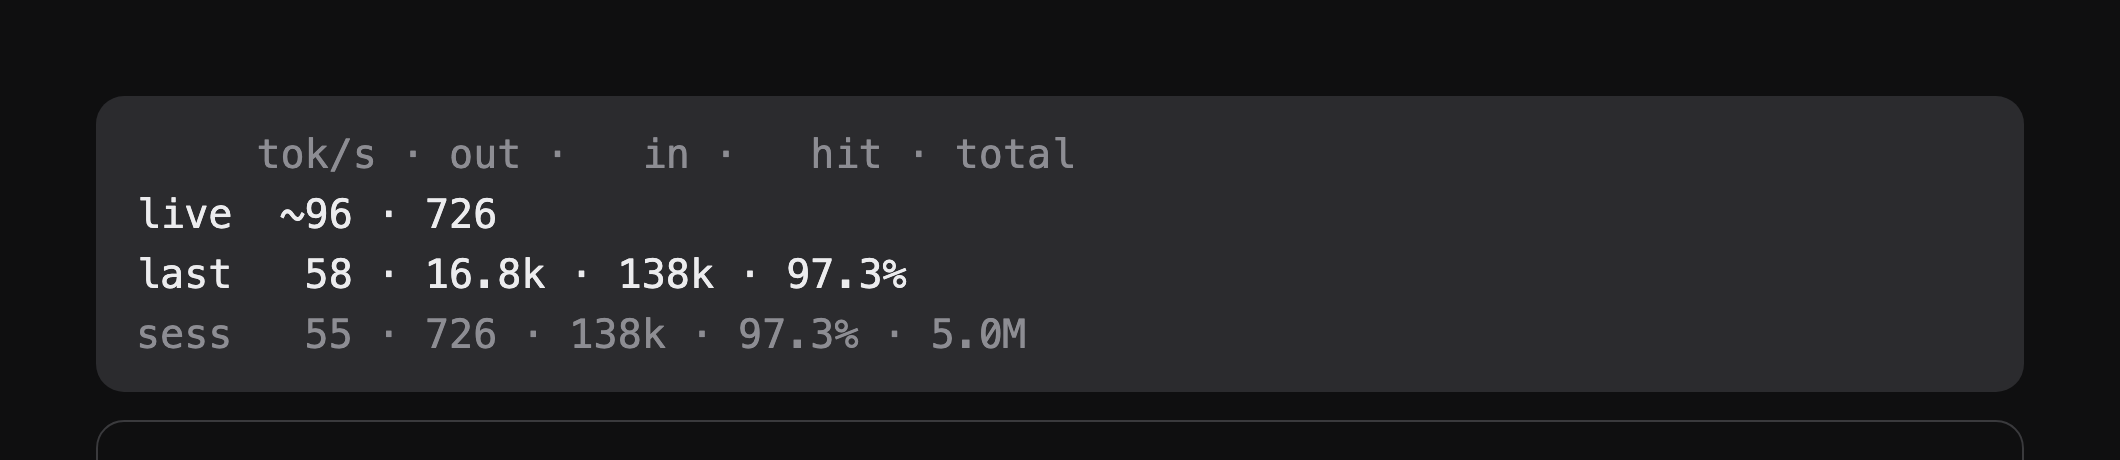
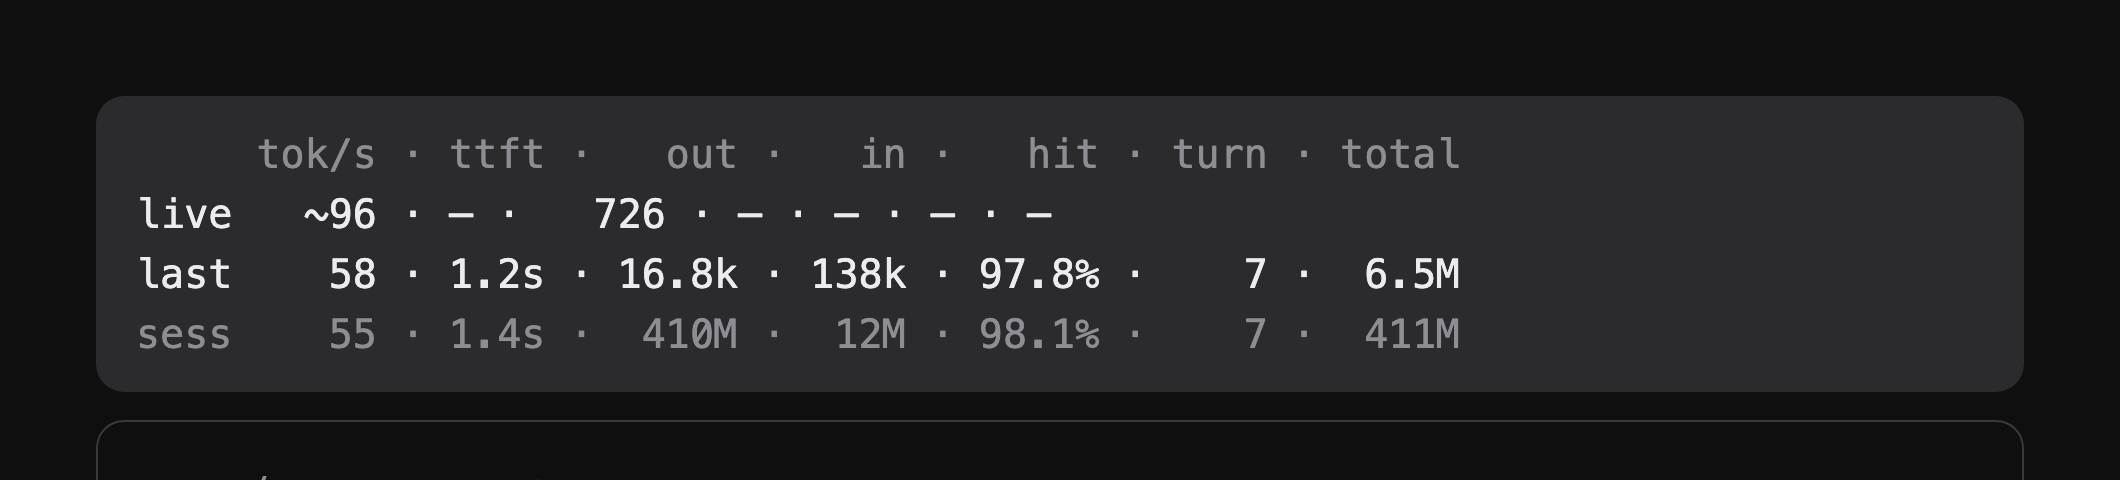
feat: add ttft, turn ordinal and per-turn total columns

diff --git a/hooks/register.tsx b/hooks/register.tsx
@@ -34,10 +34,8 @@ const cell = (v: string, w: number) => v.padStart(w)
 // column that carries one on another row, so a live row is "tok/s · out" and
 // the ones below keep the same columns. Columns the row lacks stay blank, at
 // their width, and trailing blanks are cut.
-const line = (cells: string[]) => {
-  const out = cells.join(' · ')
-  return out.replace(/[\s·]+$/, '')
-}
+// A cell a row has no value for keeps its column as a dash.
+const line = (cells: string[]) => cells.map(v => (v.trim() ? v : '—')).join(' · ')
 const pctF = (v: number) => v.toFixed(1)
 
 // Nothing in a streamed chunk counts tokens: each response reports its counts
@@ -129,8 +127,8 @@ export const register: Register = on => {
           seconds: (now - first) / 1000,
         }
         await update($, band, b => ({
-          last: b?.last ?? { tokPerSec: 0, hitPct: 0, input: 0, out: 0, seconds: 0 },
-          session: b?.session ?? { tokPerSec: 0, hitPct: 0, input: 0, out: 0, total: 0, turns: 0 },
+          last: b?.last ?? { tokPerSec: 0, hitPct: 0, input: 0, out: 0, total: 0, turn: 0, ttftMs: 0, seconds: 0 },
+          session: b?.session ?? { tokPerSec: 0, hitPct: 0, input: 0, out: 0, total: 0, turns: 0, ttftMs: 0 },
           live,
         }))
       }
@@ -142,8 +140,8 @@ export const register: Register = on => {
     // Written even with no band yet, so the first turn's rows exist by the time
     // its first chunk streams.
     await update($, band, b => ({
-      last: b?.last ?? { tokPerSec: 0, hitPct: 0, input: 0, out: 0, seconds: 0 },
-      session: b?.session ?? { tokPerSec: 0, hitPct: 0, input: 0, out: 0, total: 0, turns: 0 },
+      last: b?.last ?? { tokPerSec: 0, hitPct: 0, input: 0, out: 0, total: 0, turn: 0, ttftMs: 0, seconds: 0 },
+      session: b?.session ?? { tokPerSec: 0, hitPct: 0, input: 0, out: 0, total: 0, turns: 0, ttftMs: 0 },
       live: null,
     }))
 
@@ -162,7 +160,8 @@ export const register: Register = on => {
       input: prev?.turnId === e.turnId ? prev.input : 0,
       cached: prev?.turnId === e.turnId ? prev.cached : 0,
       written: prev?.turnId === e.turnId ? prev.written : 0,
-      ttftMs,
+      // The wait the person noticed is the turn's first one.
+      ttftMs: prev?.turnId === e.turnId && prev.ttftMs > 0 ? prev.ttftMs : ttftMs,
     }
 
     await update($, cur, () => ({
@@ -209,6 +208,7 @@ export const register: Register = on => {
       input: (prev?.input ?? 0) + (turn.input ?? 0),
       cached: (prev?.cached ?? 0) + (turn.cached ?? 0),
       written: (prev?.written ?? 0) + (turn.written ?? 0),
+      ttftMs: (prev?.ttftMs ?? 0) + (turn.ttftMs ?? 0),
       turns: (prev?.turns ?? 0) + 1,
     }
     const shown: Band = {
@@ -221,6 +221,9 @@ export const register: Register = on => {
               hitPct: pct(turn.cached ?? 0, denom),
               input: turn.input ?? 0,
               out: turn.out ?? 0,
+              total: denom + (turn.out ?? 0),
+              turn: sum.turns,
+              ttftMs: turn.ttftMs ?? 0,
               seconds: (turn.ms ?? 0) / 1000,
             }
           : ((await read($, band))?.last ?? {
@@ -228,6 +231,9 @@ export const register: Register = on => {
               hitPct: pct(turn.cached ?? 0, denom),
               input: turn.input ?? 0,
               out: turn.out ?? 0,
+              total: denom + (turn.out ?? 0),
+              turn: sum.turns,
+              ttftMs: turn.ttftMs ?? 0,
               seconds: 0,
             }),
       session: {
@@ -256,8 +262,8 @@ export const register: Register = on => {
     // Values written by the earlier band shape lack live and the token totals.
     const live = shown.live ?? null
     const num = (v: number | undefined) => v ?? 0
-    const mainLoop = shown.last ?? { tokPerSec: 0, hitPct: 0, input: 0, out: 0, seconds: 0 }
-    const sess = shown.session ?? { tokPerSec: 0, hitPct: 0, input: 0, out: 0, total: 0, turns: 0 }
+    const mainLoop = shown.last ?? { tokPerSec: 0, hitPct: 0, input: 0, out: 0, total: 0, turn: 0, ttftMs: 0, seconds: 0 }
+    const sess = shown.session ?? { tokPerSec: 0, hitPct: 0, input: 0, out: 0, total: 0, turns: 0, ttftMs: 0 }
 
     const { Box, Text } = $.ui.resolve(e)
 
@@ -272,11 +278,20 @@ export const register: Register = on => {
       return [cell(name, w), cell(a, w), cell(b, w), cell(c, w)]
     }
     const cols = [
-      col("tok/s", `~${fmtRate(num(live?.tokPerSec))}`, fmtRate(num(mainLoop.tokPerSec)), fmtRate(num(sess.tokPerSec))),
-      col("out", fmtTokens(num(live?.out)), fmtTokens(num(mainLoop.out)), fmtTokens(num(sess.out))),
+      col("tok/s", live ? `~${fmtRate(num(live.tokPerSec))}` : "", fmtRate(num(mainLoop.tokPerSec)), fmtRate(num(sess.tokPerSec))),
+      // Seconds to the first generated chunk; the session shows its average.
+      col(
+        "ttft",
+        "",
+        mainLoop.turn ? `${(num(mainLoop.ttftMs) / 1000).toFixed(1)}s` : "—",
+        sess.turns ? `${(num(sess.ttftMs) / num(sess.turns) / 1000).toFixed(1)}s` : "—",
+      ),
+      col("out", live ? fmtTokens(num(live.out)) : "", fmtTokens(num(mainLoop.out)), fmtTokens(num(sess.out))),
       col("in", "", fmtTokens(num(mainLoop.input)), fmtTokens(num(sess.input))),
       col("hit", "", `${pctF(num(mainLoop.hitPct))}%`, `${pctF(num(sess.hitPct))}%`),
-      col("total", "", "", fmtTokens(num(sess.total))),
+      // The turn in progress counts from the session's finished ones.
+      col("turn", live ? String(num(sess.turns) + 1) : "", String(num(mainLoop.turn)), String(num(sess.turns))),
+      col("total", "", fmtTokens(num(mainLoop.total)), fmtTokens(num(sess.total))),
     ] as const
 
     // Only sess stays dim: live is the value the person is watching, and dim
@@ -284,10 +299,9 @@ export const register: Register = on => {
     // `mono` is what makes the padding line up: the desktop's body face is
     // proportional, where a column of spaces is not a column of anything.
     // `tabular` pins digit widths, so a value that ticks does not shift.
-    const row = (label: string, i: number) => (
+    const row = (label: string, i: number, blank = false) => (
       <Text mono tabular dimColor={label === "sess"}>
-        {pad(label, 5)}
-        {line(cols.map(c => c[i]))}
+        {(pad(label, 5) + (blank ? "" : line(cols.map(c => c[i])))).trimEnd()}
       </Text>
     )
 
@@ -297,7 +311,7 @@ export const register: Register = on => {
           {pad("", 5)}
           {cols.map(c => c[0]).join(" · ")}
         </Text>
-        {row("live", 1)}
+        {row("live", 1, live === null)}
         {row("last", 2)}
         {row("sess", 3)}
       </Box>

diff --git a/tests/band.test.tsx b/tests/band.test.tsx
@@ -2,8 +2,12 @@ import { test, expect, mock } from 'claude-code/testing'
 
 // `find({ text })` matches the whole shown text by inclusion only for short
 // strings; row text is read here instead, as the joined display of one node.
+// Rows as shown, with the padding collapsed: order and content are what the
+// tests are about, not the column arithmetic (which is the renderer's).
 const rowTexts = async (ui: any) =>
-  (await ui.findAll({ type: 'Text' })).map((el: any) => el.text as string)
+  (await ui.findAll({ type: 'Text' })).map((el: any) =>
+    (el.text as string).replace(/\s+/g, ' ').trim(),
+  )
 
 const PROPS = {
   hasSurvey: false,
@@ -83,12 +87,11 @@ test('band rates decode windows, not turn wall time', { timeoutMs: 15000 }, asyn
     props: PROPS,
   })
 
-  expect(await rowTexts(ui1)).toEqual([
-    '     tok/s · out · in ·   hit · total',
-    'live  ~0.0 ·   0',
-    'last   199 · 400 · 1k · 80.0%',
-    'sess   199 · 400 · 1k · 80.0% ·   10k',
-  ])
+  const rows1 = await rowTexts(ui1)
+  expect(rows1[0]).toBe('tok/s · ttft · out · in · hit · turn · total')
+  expect(rows1[1]).toBe('live')
+  expect(rows1[2]).toMatch(/^last [\d.]+ · 0\.0s · 400 · 1k · 80\.0% · 1 · 10k$/)
+  expect(rows1[3]).toMatch(/^sess [\d.]+ · 0\.0s · 400 · 1k · 80\.0% · 1 · 10k$/)
 
   // Turn 2: 200 tokens over 1 s.
   decodeMs = 1000
@@ -114,12 +117,9 @@ test('band rates decode windows, not turn wall time', { timeoutMs: 15000 }, asyn
     props: PROPS,
   })
 
-  expect(await rowTexts(ui2)).toEqual([
-    '     tok/s · out ·   in ·   hit · total',
-    'live  ~0.0 ·   0',
-    'last   199 · 200 ·  500 · 80.0%',
-    'sess   199 · 600 · 1.5k · 80.0% ·   16k',
-  ])
+  const rows2 = await rowTexts(ui2)
+  expect(rows2[2]).toMatch(/^last [\d.]+ · 0\.0s · 200 · 500 · 80\.0% · 2 · 5\.2k$/)
+  expect(rows2[3]).toMatch(/^sess [\d.]+ · 0\.0s · 600 · 1\.5k · 80\.0% · 2 · 16k$/)
 })
 
 test('an all-zero usage turn leaves the band alone', { timeoutMs: 15000 }, async ($, on) => {
@@ -183,11 +183,10 @@ test('an all-zero usage turn leaves the band alone', { timeoutMs: 15000 }, async
     props: PROPS,
   })
 
-  expect((await rowTexts(ui)).slice(1)).toEqual([
-    'live  ~0.0 ·   0',
-    'last   100 · 100 · 900 · 0.0%',
-    'sess   100 · 100 · 900 · 0.0% ·    1k',
-  ])
+  const rows3 = (await rowTexts(ui)).slice(1)
+  expect(rows3[0]).toBe('live')
+  expect(rows3[1]).toMatch(/^last [\d.]+ · 0\.0s · 100 · 900 · 0\.0% · 1 · 1k$/)
+  expect(rows3[2]).toMatch(/^sess [\d.]+ · 0\.0s · 100 · 900 · 0\.0% · 1 · 1k$/)
   // Three rows, stacked: an idle live row above, never a fourth child beside them.
   const tree = (await ui.drawn()) as any
   expect(tree.props.flexDirection).toBe('column')
@@ -262,11 +261,10 @@ test('band estimates a live rate while a response streams', { timeoutMs: 15000 }
   // One ASCII character already streamed plus 4 CJK and one more ASCII: 4.5
   // estimated tokens over 1 s.
   // The rows below keep their place while the live row streams above them.
-  expect((await rowTexts(ui)).slice(1)).toEqual([
-    'live  ~4.5 ·   5',
-    'last   6.0 ·   6 · 100 · 90.0%',
-    'sess   6.0 ·   6 · 100 · 90.0% ·    1k',
-  ])
+  const rows4 = (await rowTexts(ui)).slice(1)
+  expect(rows4[0]).toMatch(/^live ~[\d.]+ · — · [\d.]+ · — · — · 2 · —$/)
+  expect(rows4[1]).toMatch(/^last [\d.]+ · 0\.0s · 6 · 100 · 90\.0% · 1 · 1k$/)
+  expect(rows4[2]).toMatch(/^sess [\d.]+ · 0\.0s · 6 · 100 · 90\.0% · 1 · 1k$/)
 
   release()
   await it.next()

diff --git a/types/index.d.ts b/types/index.d.ts
@@ -5,6 +5,12 @@ export type TurnStat = {
   input: number
   /** Generated tokens of the turn. */
   out: number
+  /** Everything the turn's requests carried: input, cache read, cache write, out. */
+  total: number
+  /** Which turn of the session this was, counting from 1. */
+  turn: number
+  /** Wait before the turn's first generated chunk, in ms. */
+  ttftMs: number
   seconds: number
 }
 
@@ -37,6 +43,7 @@ export type Tally = {
   input: number
   cached: number
   written: number
+  ttftMs: number
   turns: number
 }
 

diff --git a/README.md b/README.md
@@ -7,10 +7,10 @@ A mod for the Claude Code desktop app that draws a small table in the band above
 ![The band above the prompt](assets/band.png)
 
 ```
-     tok/s · out ·   in ·   hit · total
-live  ~96 · 726
-last   58 · 16.8k · 138k · 97.3%
-sess   55 · 726 · 138k · 97.3% · 5.0M
+     tok/s · ttft ·   out ·   in ·   hit · turn · total
+live   ~96 · — ·   726 · — · — · — · —
+last    58 · 1.2s · 16.8k · 138k · 97.8% ·    7 ·  6.5M
+sess    55 · 1.4s ·  410M ·  12M · 98.1% ·    7 ·  411M
 ```
 
 Same field, same column, on every row, so the eye reads one column down instead of hunting: each value is right-aligned on the widest in its column, and the row that comes and goes keeps its place. The rows are drawn in the surface's monospaced face with tabular digits — without that, a column of spaces lines up nothing.
@@ -22,14 +22,21 @@ Same field, same column, on every row, so the eye reads one column down instead 
 | `live` | `tok/s` | Decode rate of the reply streaming right now, **estimated** from the characters received (see the note below) |
 | | `out` | Estimated tokens of that reply so far |
 | `last` | `tok/s` | Decode rate of the turn just finished: output tokens over the time spent generating them, tool runs and prefill excluded |
+| | `ttft` | Wait before the turn's first generated chunk: prefill plus whatever the gateway spent queueing it |
 | | `out` | Tokens the model generated in that turn |
 | | `in` | Prompt tokens that were **not** served from the prompt cache |
 | | `hit` | Share of the turn's prompt tokens that came from the cache |
+| | `turn` | Which turn of the session this was, counting from 1 |
+| | `total` | Everything that turn carried: uncached input + cache reads + cache writes + output |
 | `sess` | `tok/s` | Session-wide decode rate: all output tokens over all generation time |
+| | `ttft` | Mean first-chunk wait over the session's turns |
 | | `out` | All output tokens this session |
 | | `in` | All uncached prompt tokens this session |
 | | `hit` | Session cache hit rate |
+| | `turn` | Turns finished in this session |
 | | `total` | Everything the session carried: uncached input + cache reads + cache writes + output |
+
+`total` counts what the API was asked to read, not what is new: one 138k conversation sent five times in a turn adds up to 690k. That is the cost, not the context length. `—` marks a cell the row has no value for.
 
 `live` is the only estimated number. The API reports a response's token counts once, in its last chunk, so mid-stream there is nothing to count; the band counts CJK characters as one token and everything else as a quarter, then replaces the estimate with the API's own numbers when the response ends. It is good enough to watch, not to reconcile against a bill.
 
